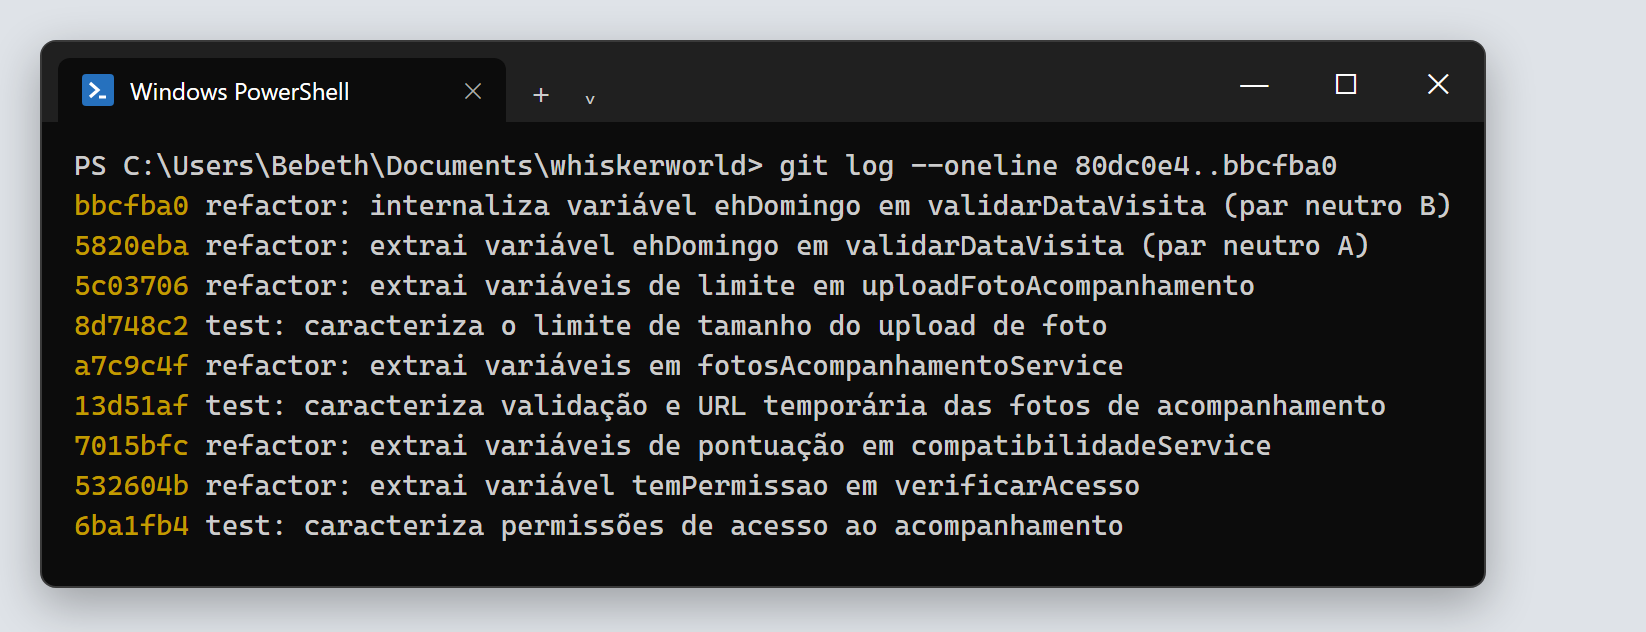
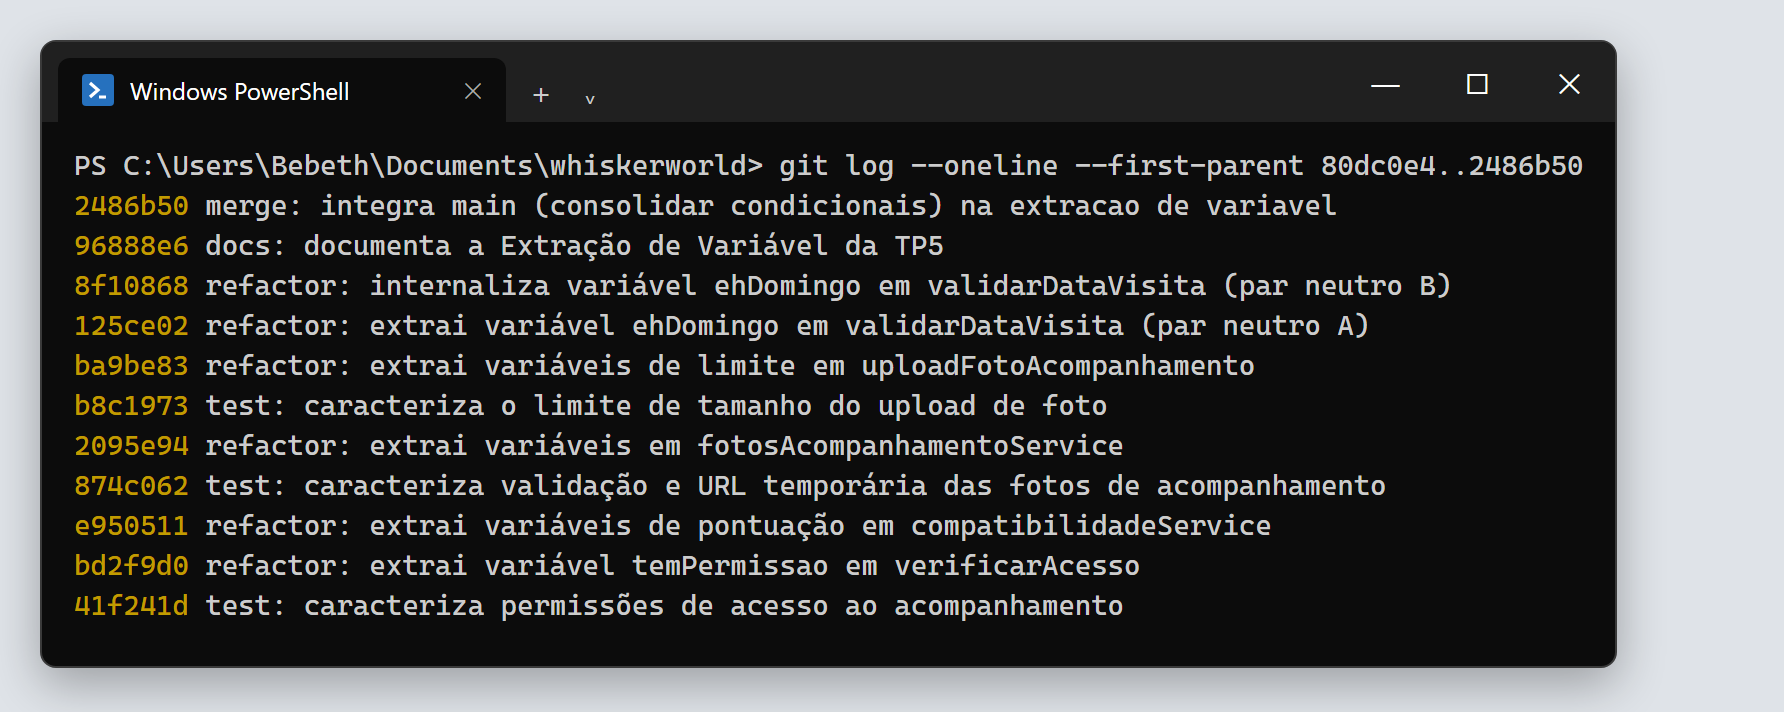
docs: atualiza Extracao de Variavel apos integracao com a main
Atualiza os hashes dos commits, regera prints e evidencias e documenta a combinacao de R1 com a consolidacao de condicionais do PR #48.

Changed region(s): [[0.0, 0.0301, 0.9295, 0.962], [0.2789, 0.1203, 0.3098, 0.1503]]

diff --git a/docs/tp5-refatoracao/extracao-de-variavel/02-refatoracoes-planejadas.md b/docs/tp5-refatoracao/extracao-de-variavel/02-refatoracoes-planejadas.md
@@ -5,7 +5,7 @@ Segundo o capítulo 9 de *Engenharia de Software Moderna*, uma refatoração é 
 As três refatorações abaixo foram planejadas assim:
 
 1. **Diagnóstico:** mapeamos `backend/src` e `client/src` e escolhemos as expressões do backend mais difíceis de ler e que envolvem regras de negócio ou de segurança (smells S1 a S3 em [01-code-smells.md](01-code-smells.md)).
-2. **Rede de segurança:** conferimos o que os testes existentes cobriam. A regra de permissão (R1) e o serviço de fotos (R3) não tinham nenhum teste, então criamos testes de caracterização antes de mexer no código (commits `6ba1fb4` e `13d51af`). A compatibilidade (R2) já tinha testes dos limites de pontuação e o script de comparação exaustiva da Extração de Método.
+2. **Rede de segurança:** conferimos o que os testes existentes cobriam. A regra de permissão (R1) e o serviço de fotos (R3) não tinham nenhum teste, então criamos testes de caracterização antes de mexer no código (commits `41f241d` e `874c062`). A compatibilidade (R2) já tinha testes dos limites de pontuação e o script de comparação exaustiva da Extração de Método.
 3. **Execução em passos pequenos:** uma refatoração por commit, rodando os testes depois de cada uma.
 4. **Verificação:** os testes e o hash da compatibilidade precisam ser iguais antes e depois.
 
@@ -16,7 +16,7 @@ As três refatorações abaixo foram planejadas assim:
 | | |
 |---|---|
 | **Arquivo** | `backend/src/services/acompanhamentosService.js` |
-| **Commit** | `532604b` |
+| **Commit** | `bd2f9d0` |
 | **Smell resolvido** | S1 – Expressão condicional complexa |
 | **Diff completo** | [evidencias/texto/diff-01-tem-permissao.diff](evidencias/texto/diff-01-tem-permissao.diff) |
 
@@ -81,7 +81,7 @@ Linhas em vermelho (`-`) foram removidas e linhas em verde (`+`) foram adicionad
 | Registrar (`R` verdadeiro) | `¬A` | `¬A` |
 | Consultar (`R` falso) | `¬A ∧ ¬D` | `¬(A ∨ D)`, que pela lei de De Morgan é `¬A ∧ ¬D` |
 
-**Testes.** Antes da refatoração, nenhum teste cobria essa regra. Criamos dois testes de caracterização (commit `6ba1fb4`) que percorrem a matriz de permissões:
+**Testes.** Antes da refatoração, nenhum teste cobria essa regra. Criamos dois testes de caracterização (commit `41f241d`) que percorrem a matriz de permissões:
 
 | Usuário | Registrar | Consultar |
 |---|---|---|
@@ -91,6 +91,46 @@ Linhas em vermelho (`-`) foram removidas e linhas em verde (`+`) foram adicionad
 
 Os dois testes passaram no código original e continuaram passando depois da refatoração.
 
+### Integração com a Consolidação de Condicionais (PR #48)
+
+Enquanto esta branch estava aberta, o PR #48 ([Consolidar Expressão Condicional](../../tp5-refatoracao-consolidar-condicionais/relatorio-consolidar-condicionais.md)) foi incorporado à `main`. Ele tratou a **mesma condição** com outra técnica: moveu a expressão para a função `acessoAoAcompanhamentoNegado`, mas manteve dentro dela a forma original, com as cinco negações. Como as duas refatorações alteraram as mesmas linhas, o Git apontou um conflito.
+
+Na integração (commit `2486b50`), as duas foram combinadas, porque se complementam:
+
+- a **Consolidação de Condicionais** deu um nome à pergunta "o acesso é negado?" e tirou a expressão de dentro de `verificarAcesso`;
+- a **Extração de Variável** reescreveu a resposta a essa pergunta de forma positiva, dentro da nova função.
+
+```js
+function acessoAoAcompanhamentoNegado(
+  paraRegistrar,
+  adotanteResponsavel,
+  administrador
+) {
+  // Registrar é exclusivo do adotante; consultar também é permitido ao administrador.
+  const temPermissao = paraRegistrar
+    ? adotanteResponsavel
+    : adotanteResponsavel || administrador;
+
+  return !temPermissao;
+}
+
+async function verificarAcesso(adocaoId, usuario, paraRegistrar = false) {
+  ...
+  if (
+    acessoAoAcompanhamentoNegado(
+      paraRegistrar,
+      adotanteResponsavel,
+      administrador
+    )
+  ) {
+    throw new AppError('Você não tem permissão para acessar este acompanhamento.', 403);
+  }
+  ...
+}
+```
+
+A assinatura da função e a chamada em `verificarAcesso` ficaram como no PR #48. Os testes de permissão criados para R1 também valem para o código integrado e continuaram passando (36 de 36).
+
 ---
 
 ## R2 — Pontuação em `compatibilidadeService`
@@ -98,7 +138,7 @@ Os dois testes passaram no código original e continuaram passando depois da ref
 | | |
 |---|---|
 | **Arquivo** | `backend/src/services/compatibilidadeService.js` |
-| **Commit** | `7015bfc` |
+| **Commit** | `e950511` |
 | **Smell resolvido** | S2 – Números mágicos |
 | **Diff completo** | [evidencias/texto/diff-02-pontuacao-compatibilidade.diff](evidencias/texto/diff-02-pontuacao-compatibilidade.diff) |
 
@@ -211,7 +251,7 @@ Outra opção seria calcular `pontuacaoMaxima` a partir da tabela `pontos` (6 ca
 | | |
 |---|---|
 | **Arquivo** | `backend/src/services/fotosAcompanhamentoService.js` |
-| **Commit** | `a7c9c4f` |
+| **Commit** | `2095e94` |
 | **Smell resolvido** | S3 – Números mágicos |
 | **Diff completo** | [evidencias/texto/diff-03-fotos-acompanhamento.diff](evidencias/texto/diff-03-fotos-acompanhamento.diff) |
 
@@ -291,7 +331,7 @@ async function obterUrlTemporaria(caminho) {
 
 ### Por que o comportamento não mudou
 
-Antes da refatoração, o serviço de fotos não tinha nenhum teste. Criamos três testes de caracterização (commit `13d51af`). Eles substituem o `bucket` do Firebase Storage por um dublê e verificam:
+Antes da refatoração, o serviço de fotos não tinha nenhum teste. Criamos três testes de caracterização (commit `874c062`). Eles substituem o `bucket` do Firebase Storage por um dublê e verificam:
 
 - uma foto PNG de **exatamente 2 MB** é aceita; uma foto vazia ou com 1 byte acima de 2 MB é recusada, com a mesma mensagem;
 - um arquivo declarado como PNG, mas sem a assinatura PNG, é recusado, assim como um PNG declarado como JPEG;

diff --git a/docs/tp5-refatoracao/extracao-de-variavel/README.md b/docs/tp5-refatoracao/extracao-de-variavel/README.md
@@ -26,12 +26,12 @@ Parte da **TP5 – Refatoração** do Whiskerworld. Este diretório reúne tudo 
 
 | # | Refatoração | Tipo | Arquivo | Commit |
 |---|---|---|---|---|
-| R1 | Condição de acesso vira `temPermissao` | Planejada | `backend/src/services/acompanhamentosService.js` | `532604b` |
-| R2 | Limites de pontuação e `temImpedimento` ganham nome | Planejada | `backend/src/services/compatibilidadeService.js` | `7015bfc` |
-| R3 | Limite, assinatura PNG e validade da URL ganham nome | Planejada | `backend/src/services/fotosAcompanhamentoService.js` | `a7c9c4f` |
-| R4 | `tamanhoMaximoFoto` no middleware de upload | Oportunista | `backend/src/middlewares/uploadFotoAcompanhamento.js` | `5c03706` |
-| A | `ehDomingo` extraída (Extract Variable) | Par neutro | `backend/src/services/agendamentosService.js` | `5820eba` |
-| B | `ehDomingo` internalizada (Inline Variable) | Par neutro | `backend/src/services/agendamentosService.js` | `bbcfba0` |
+| R1 | Condição de acesso vira `temPermissao` | Planejada | `backend/src/services/acompanhamentosService.js` | `bd2f9d0` |
+| R2 | Limites de pontuação e `temImpedimento` ganham nome | Planejada | `backend/src/services/compatibilidadeService.js` | `e950511` |
+| R3 | Limite, assinatura PNG e validade da URL ganham nome | Planejada | `backend/src/services/fotosAcompanhamentoService.js` | `2095e94` |
+| R4 | `tamanhoMaximoFoto` no middleware de upload | Oportunista | `backend/src/middlewares/uploadFotoAcompanhamento.js` | `ba9be83` |
+| A | `ehDomingo` extraída (Extract Variable) | Par neutro | `backend/src/services/agendamentosService.js` | `125ce02` |
+| B | `ehDomingo` internalizada (Inline Variable) | Par neutro | `backend/src/services/agendamentosService.js` | `8f10868` |
 
 ## Como garantimos que o comportamento não mudou
 
@@ -39,9 +39,9 @@ Três dos quatro arquivos refatorados não tinham nenhum teste cobrindo os trech
 
 | Commit | Testes criados | O que cobrem |
 |---|---|---|
-| `6ba1fb4` | 2 | Quem pode registrar e quem pode consultar o acompanhamento (R1) |
-| `13d51af` | 3 | Limite de 2 MB, assinatura PNG e validade de 15 minutos da URL da foto (R3) |
-| `8d748c2` | 2 | Tamanho a partir do qual o middleware recusa a foto (R4) |
+| `41f241d` | 2 | Quem pode registrar e quem pode consultar o acompanhamento (R1) |
+| `874c062` | 3 | Limite de 2 MB, assinatura PNG e validade de 15 minutos da URL da foto (R3) |
+| `b8c1973` | 2 | Tamanho a partir do qual o middleware recusa a foto (R4) |
 
 | Verificação | Antes da refatoração | Depois da refatoração |
 |---|---|---|
@@ -71,13 +71,17 @@ Cada etapa ficou em um commit separado na branch `refactor/extracao-de-variavel`
 ![Histórico de commits](evidencias/prints/00-historico-commits.png)
 
 ```text
-6ba1fb4 test: caracteriza permissões de acesso ao acompanhamento
-532604b refactor: extrai variável temPermissao em verificarAcesso                (R1 - planejada)
-7015bfc refactor: extrai variáveis de pontuação em compatibilidadeService         (R2 - planejada)
-13d51af test: caracteriza validação e URL temporária das fotos de acompanhamento
-a7c9c4f refactor: extrai variáveis em fotosAcompanhamentoService                  (R3 - planejada)
-8d748c2 test: caracteriza o limite de tamanho do upload de foto
-5c03706 refactor: extrai variáveis de limite em uploadFotoAcompanhamento          (R4 - oportunista)
-5820eba refactor: extrai variável ehDomingo em validarDataVisita (par neutro A)
-bbcfba0 refactor: internaliza variável ehDomingo em validarDataVisita (par neutro B)
+41f241d test: caracteriza permissões de acesso ao acompanhamento
+bd2f9d0 refactor: extrai variável temPermissao em verificarAcesso                (R1 - planejada)
+e950511 refactor: extrai variáveis de pontuação em compatibilidadeService         (R2 - planejada)
+874c062 test: caracteriza validação e URL temporária das fotos de acompanhamento
+2095e94 refactor: extrai variáveis em fotosAcompanhamentoService                  (R3 - planejada)
+b8c1973 test: caracteriza o limite de tamanho do upload de foto
+ba9be83 refactor: extrai variáveis de limite em uploadFotoAcompanhamento          (R4 - oportunista)
+125ce02 refactor: extrai variável ehDomingo em validarDataVisita (par neutro A)
+8f10868 refactor: internaliza variável ehDomingo em validarDataVisita (par neutro B)
+96888e6 docs: documenta a Extração de Variável da TP5
+2486b50 merge: integra main (consolidar condicionais) na extracao de variavel
 ```
+
+O último commit integra a `main` depois do PR #48 (Consolidar Expressão Condicional), que também refatorou a condição de R1. As duas refatorações foram combinadas; detalhes em [02-refatoracoes-planejadas.md](02-refatoracoes-planejadas.md#integração-com-a-consolidação-de-condicionais-pr-48).

diff --git a/docs/tp5-refatoracao/extracao-de-variavel/04-par-neutro-extract-inline.md b/docs/tp5-refatoracao/extracao-de-variavel/04-par-neutro-extract-inline.md
@@ -10,9 +10,9 @@ Isso mostra o caráter neutro da refatoração: uma refatoração apenas reorgan
 |---|---|
 | **Arquivo** | `backend/src/services/agendamentosService.js` |
 | **Função afetada** | `validarDataVisita` |
-| **Commit anterior a A** | `5c03706` |
-| **Commit A – Extract Variable** | `5820eba` · [diff](evidencias/texto/diff-05-par-neutro-A-extract.diff) |
-| **Commit B – Inline Variable** | `bbcfba0` · [diff](evidencias/texto/diff-06-par-neutro-B-inline.diff) |
+| **Commit anterior a A** | `ba9be83` |
+| **Commit A – Extract Variable** | `125ce02` · [diff](evidencias/texto/diff-05-par-neutro-A-extract.diff) |
+| **Commit B – Inline Variable** | `8f10868` · [diff](evidencias/texto/diff-06-par-neutro-B-inline.diff) |
 | **Prova** | [evidencias/texto/prova-par-neutro.txt](evidencias/texto/prova-par-neutro.txt) |
 
 ---
@@ -36,7 +36,7 @@ function validarDataVisita(dataVisita) {
 }
 ```
 
-## Refatoração A — Extract Variable (`5820eba`)
+## Refatoração A — Extract Variable (`125ce02`)
 
 A expressão `data.getDay() === 0` ganhou o nome `ehDomingo`. Quem lê não precisa lembrar que, no JavaScript, `getDay()` devolve `0` para domingo:
 
@@ -49,7 +49,7 @@ A expressão `data.getDay() === 0` ganhou o nome `ehDomingo`. Quem lê não prec
 
 ![Diff da refatoração A](evidencias/prints/10-diff-a-extract-variable.png)
 
-## Refatoração B — Inline Variable (`bbcfba0`)
+## Refatoração B — Inline Variable (`8f10868`)
 
 A variável `ehDomingo` foi substituída de volta pela expressão `data.getDay() === 0`, no único lugar onde era usada, e a declaração foi removida. O código ficou igual ao **estado inicial**. O diff de B é o espelho do diff de A: o que A adicionou, B remove.
 
@@ -67,7 +67,7 @@ Hash do conteúdo (git blob) de agendamentosService.js em cada commit:
   depois de A: ce752c2b5c11df985b2c86ded3b6a3c867c2c6da   <- código diferente
   depois de B: 4f60b9ca3d818bfa6c91e971d2f48fa05a544f3c   <- igual ao inicial
 
-$ git diff 5c03706 bbcfba0 -- backend/src/services/agendamentosService.js
+$ git diff ba9be83 8f10868 -- backend/src/services/agendamentosService.js
 (nenhuma diferença)
 ```
 
@@ -80,10 +80,10 @@ Execução no PowerShell. A primeira e a última hash são iguais, e o diff entr
 Para reproduzir:
 
 ```powershell
-git rev-parse 5c03706:backend/src/services/agendamentosService.js
-git rev-parse 5820eba:backend/src/services/agendamentosService.js
-git rev-parse bbcfba0:backend/src/services/agendamentosService.js
-git diff 5c03706 bbcfba0 -- backend/src/services/agendamentosService.js
+git rev-parse ba9be83:backend/src/services/agendamentosService.js
+git rev-parse 125ce02:backend/src/services/agendamentosService.js
+git rev-parse 8f10868:backend/src/services/agendamentosService.js
+git diff ba9be83 8f10868 -- backend/src/services/agendamentosService.js
 ```
 
 ## Observação

diff --git a/docs/tp5-refatoracao/extracao-de-variavel/03-refatoracao-oportunista.md b/docs/tp5-refatoracao/extracao-de-variavel/03-refatoracao-oportunista.md
@@ -7,7 +7,7 @@ Segundo o capítulo 9 de *Engenharia de Software Moderna*, uma refatoração é 
 | | |
 |---|---|
 | **Arquivo** | `backend/src/middlewares/uploadFotoAcompanhamento.js` |
-| **Commit** | `5c03706` |
+| **Commit** | `ba9be83` |
 | **Smell mitigado** | S4 – Números mágicos duplicados |
 | **Diff completo** | [evidencias/texto/diff-04-upload-foto.diff](evidencias/texto/diff-04-upload-foto.diff) |
 
@@ -72,7 +72,7 @@ const upload = multer({
 
 ### Por que o comportamento não mudou
 
-O middleware também não tinha testes. Antes de alterá-lo, criamos dois testes de caracterização (commit `8d748c2`). Eles enviam ao middleware uma requisição `multipart/form-data` simulada, sem precisar subir o servidor, e verificam o tamanho a partir do qual a foto é recusada. Os dois passaram antes e depois da refatoração.
+O middleware também não tinha testes. Antes de alterá-lo, criamos dois testes de caracterização (commit `b8c1973`). Eles enviam ao middleware uma requisição `multipart/form-data` simulada, sem precisar subir o servidor, e verificam o tamanho a partir do qual a foto é recusada. Os dois passaram antes e depois da refatoração.
 
 ### O que os testes revelaram
 

diff --git a/docs/tp5-refatoracao/extracao-de-variavel/01-code-smells.md b/docs/tp5-refatoracao/extracao-de-variavel/01-code-smells.md
@@ -29,7 +29,7 @@ if (
 
 **Por que é um smell:** a regra de negócio é simples: *registrar* é exclusivo do adotante responsável e *consultar* também é permitido ao administrador. A condição, porém, descreve quem **não** tem permissão, com cinco negações espalhadas em dois ramos. Para entender a regra, é preciso montar uma tabela-verdade de cabeça. Esse tipo de condição é onde erros de lógica costumam passar despercebidos.
 
-**Como foi resolvido:** a condição virou a variável `temPermissao`, escrita de forma positiva e com um ramo para cada operação. Detalhes em [02-refatoracoes-planejadas.md](02-refatoracoes-planejadas.md#r1--tempermissao-em-verificaracesso).
+**Como foi resolvido:** a condição virou a variável `temPermissao`, escrita de forma positiva e com um ramo para cada operação. Na integração com o PR #48, que levou a mesma condição para a função `acessoAoAcompanhamentoNegado`, a variável passou a ficar dentro dessa função. Detalhes em [02-refatoracoes-planejadas.md](02-refatoracoes-planejadas.md#r1--tempermissao-em-verificaracesso).
 
 ---
 
